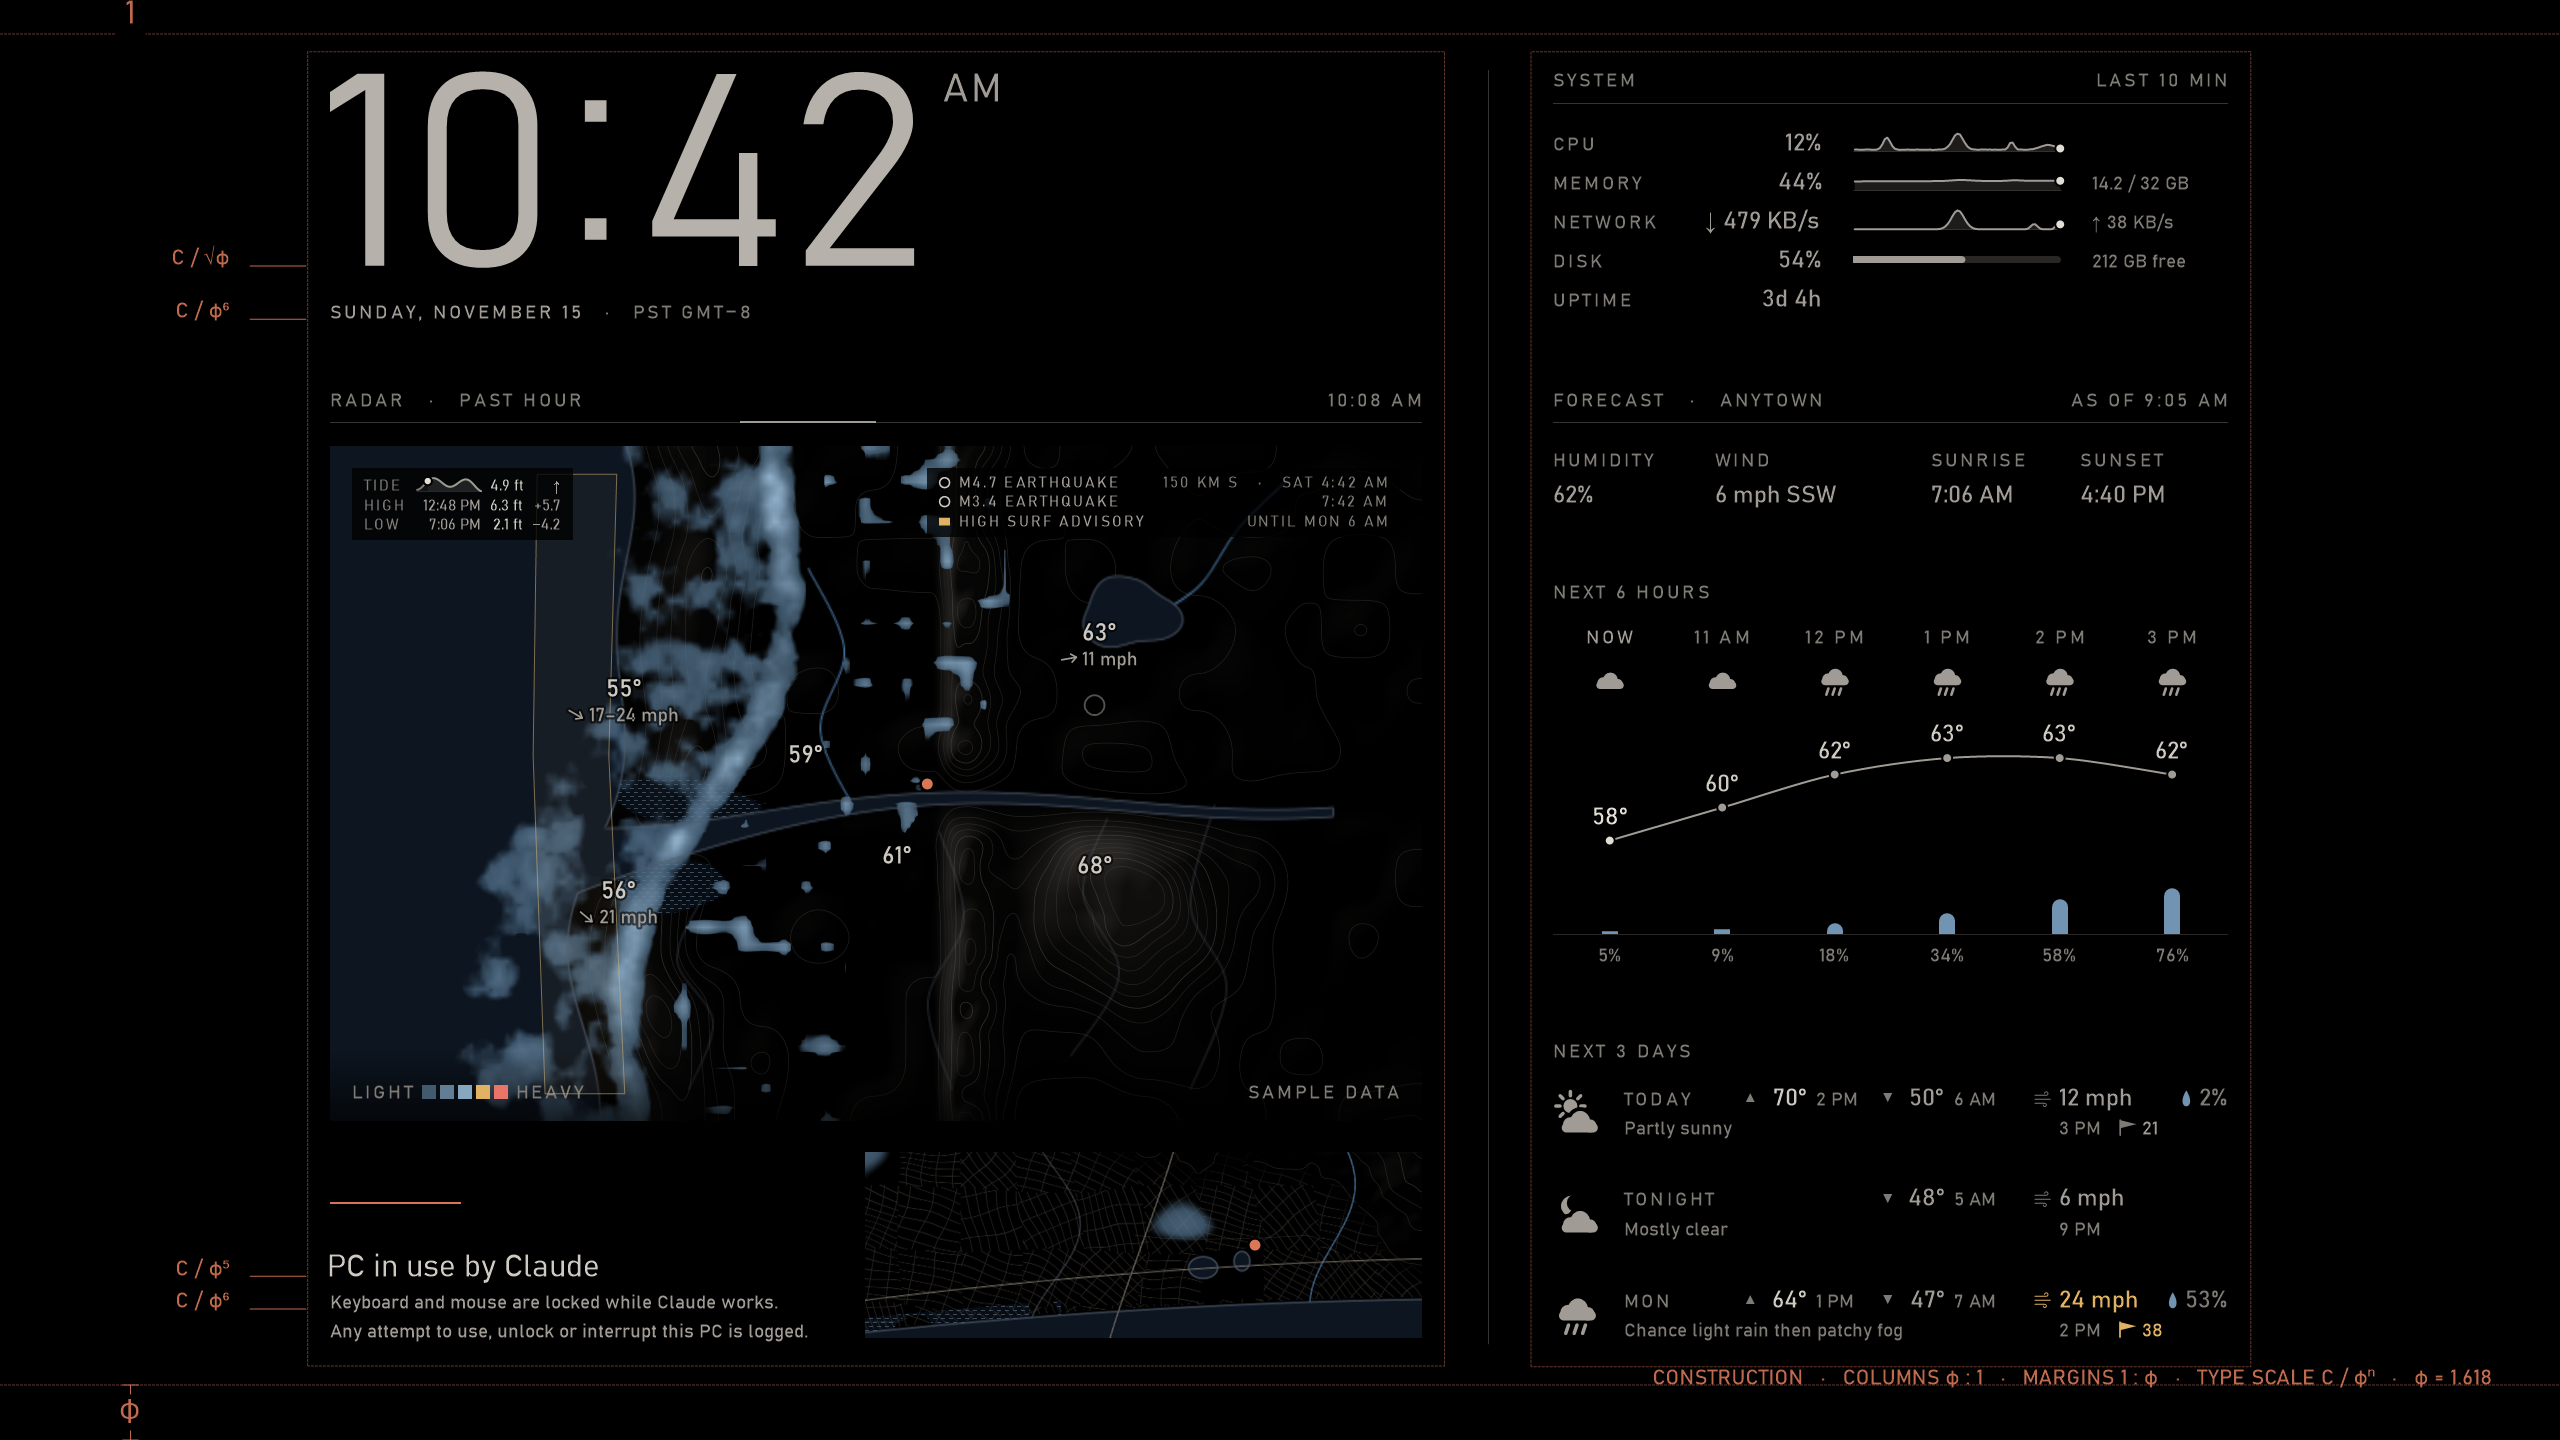
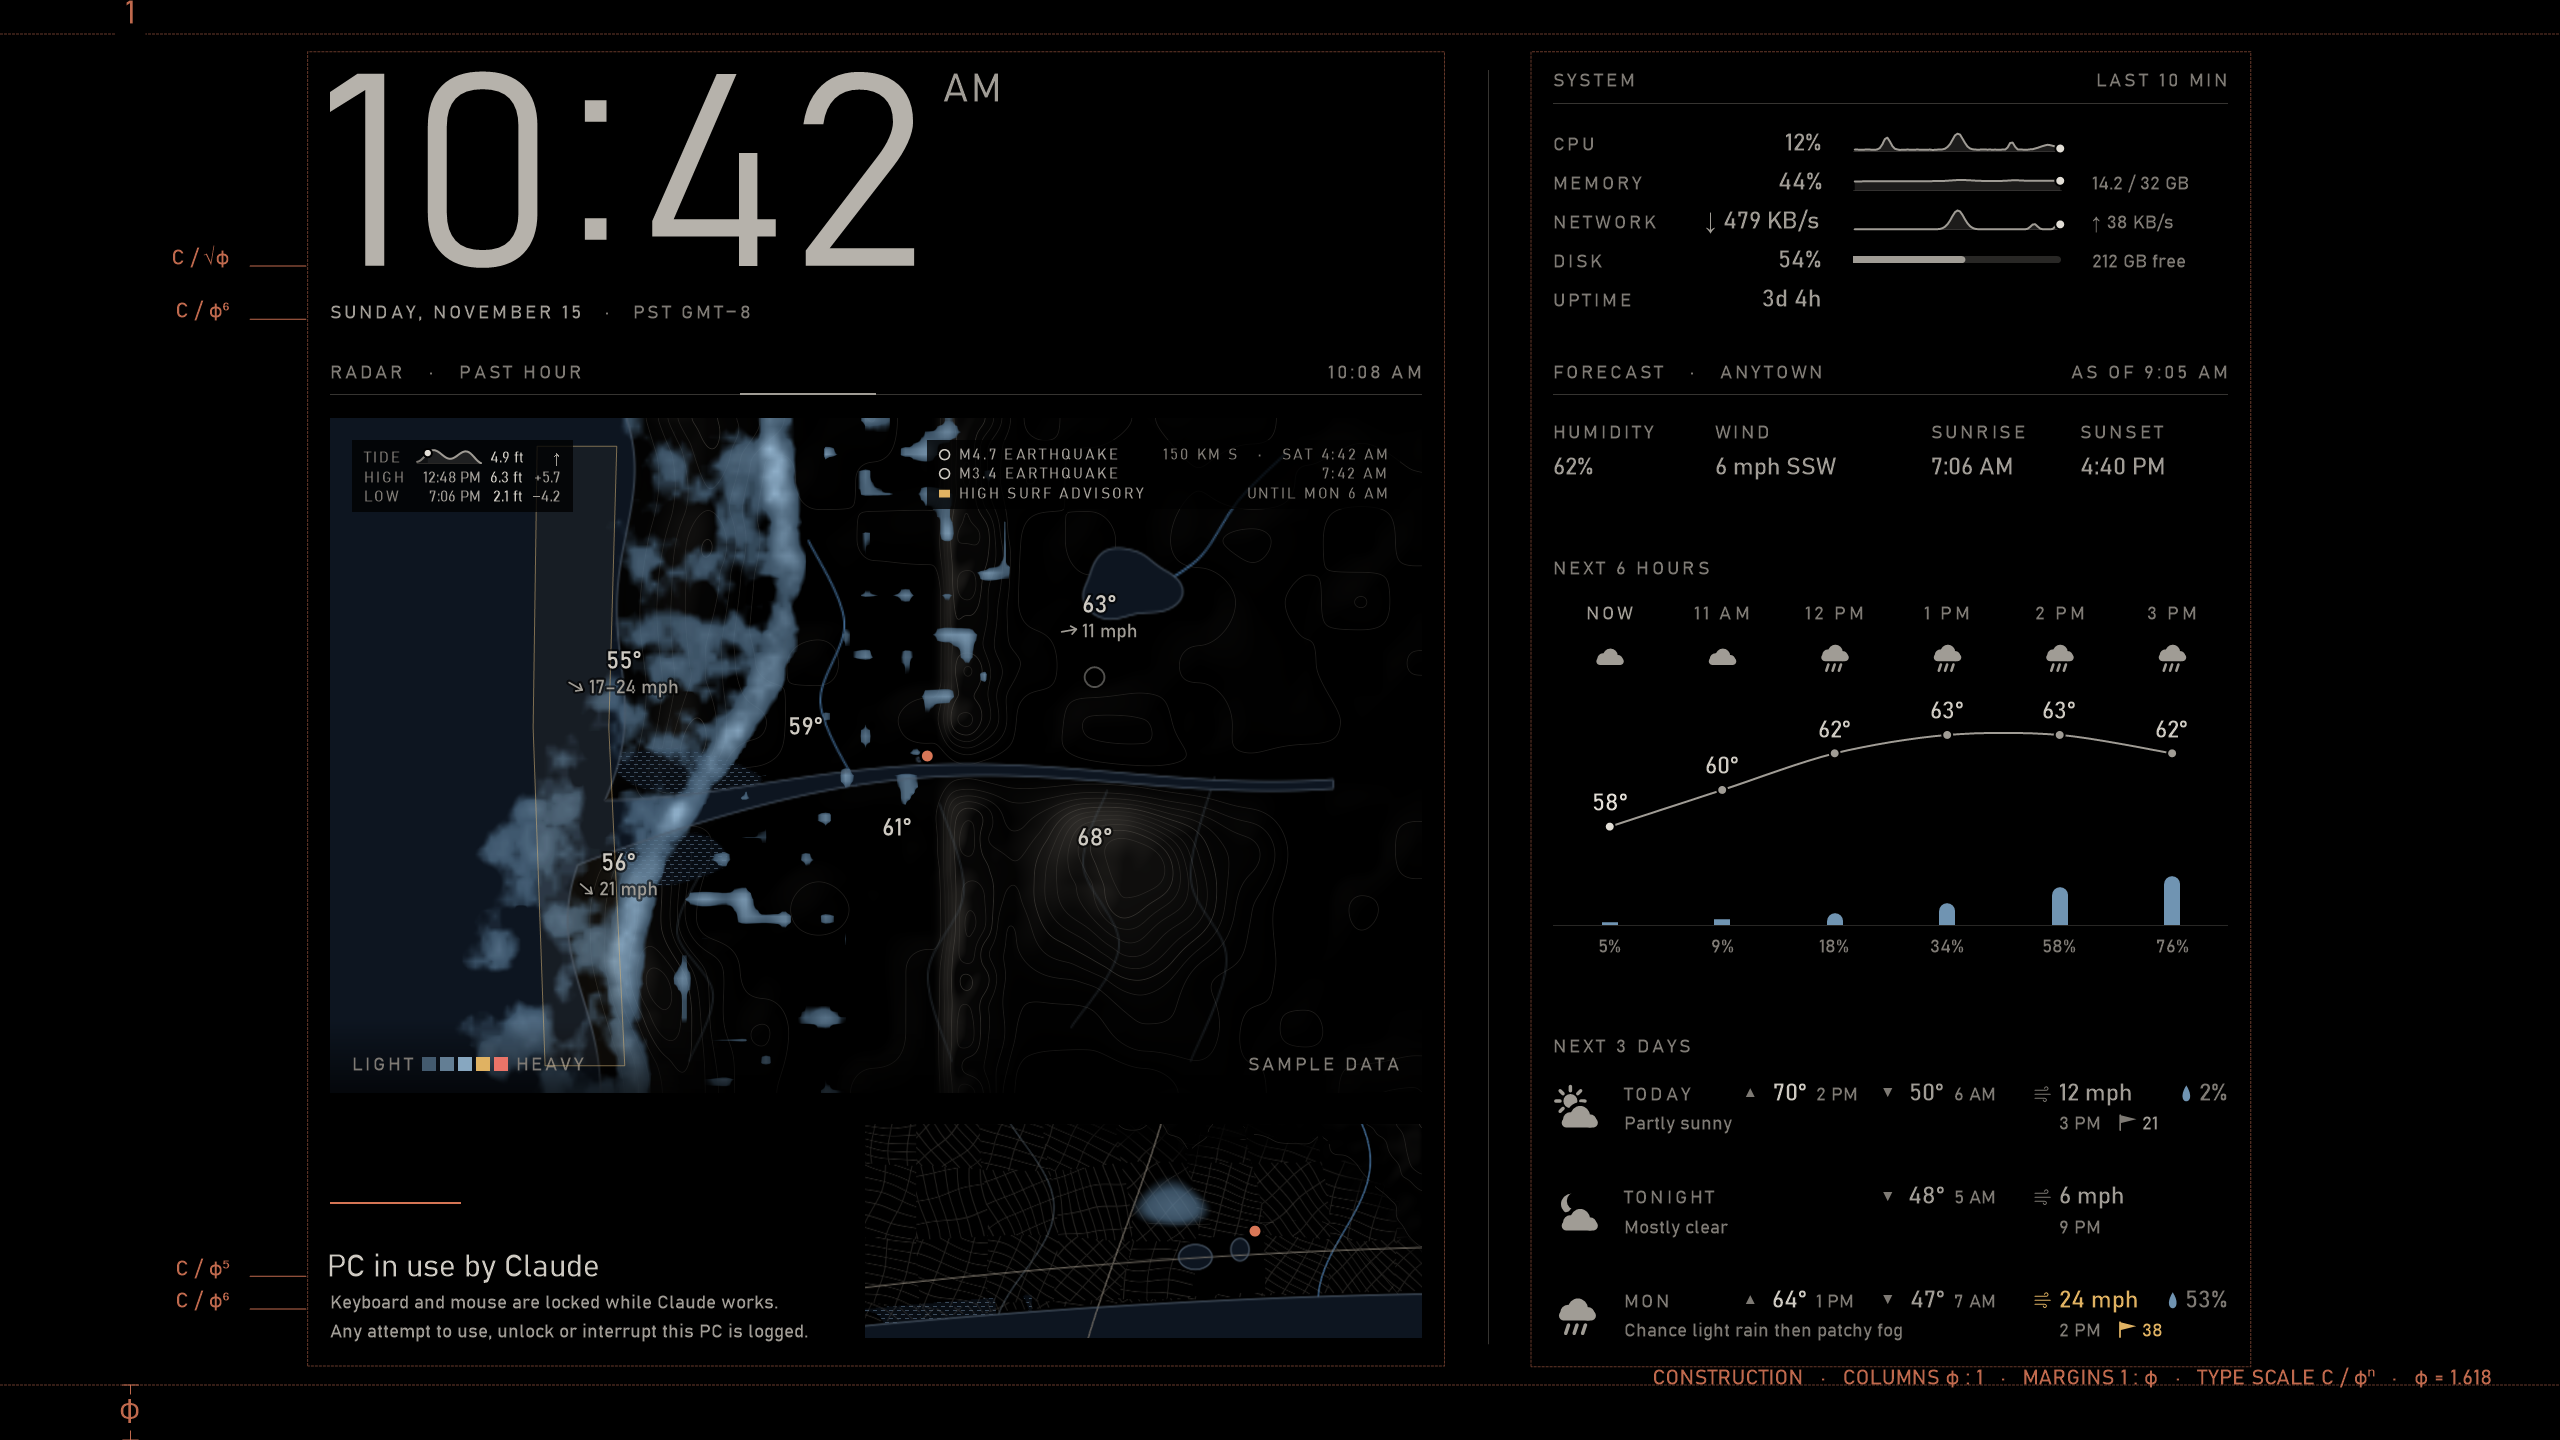
Curtain: the map's block rises a φ step, and the close-up takes the room
With the close-up shown, the map's block (header, rule, map) now sits a
φ⁴ step under the date instead of φ³, keeping its size. The close-up
takes the freed height, and the PIN row moves with the map's lowest
band. The data column's first gap is φ⁴ too (φ^3.5 before), so the
forecast's header rises with the map's and the two stay on one line.

diff --git a/src/CurtainPainter.cs b/src/CurtainPainter.cs
@@ -598,6 +598,7 @@ namespace ClaudeCurtain
                     float head;
                     float need = RightColumn(null, m, s, fData, fLabel, fSmall, track, unit, st, 0, 0, 0, 0, 0, out head);
                     L.HasRight = need > 0;
+                    float lift = 0;
                     if (hasMap && landscape && L.HasRight)
                     {
                         // If the clock leaves the map's header above where the forecast falls by itself (under the
@@ -609,8 +610,15 @@ namespace ClaudeCurtain
                             mapRule = (float)Math.Round(mapHead + st(6) * 0.8f);
                             mapTop = (float)Math.Round(mapRule + st(5.5));
                         }
+                        // With the close-up under it (2026-11-21, the user: less room between the map and the clock,
+                        // for a bigger close-up and more even spacing), the map's block (header, rule, map) rises
+                        // from a φ³ step under the date to a φ⁴ step, keeping its size, and the close-up takes the
+                        // height it leaves; the forecast's header rises with it (it falls a φ⁴ step under the system
+                        // table by itself), so the two headers stay on one line.
+                        if (s.Map.Detail != null)
+                            lift = Math.Max(0f, (float)Math.Floor(Math.Min(st(3) - st(4), mapHead - head)));
                     }
-                    float forecastAt = hasMap && landscape ? mapHead : 0;
+                    float forecastAt = hasMap && landscape ? mapHead - lift : 0;
                     // the message's last baseline, laid out naturally
                     float lastLine = hasMap ? mapTop + mapMinH + st(3) + msgH : yDate + st(3) + pinH + st(3) + msgH;
                     float stretch = 0;
@@ -635,7 +643,7 @@ namespace ClaudeCurtain
                     float ruleTop = (float)Math.Round(lastLine - msgH);
                     L.Rule = new RectangleF(0, ruleTop, ruleW, ruleH);
                     L.PinX = 0;
-                    L.PinHintBaseline = ruleTop - st(3);
+                    L.PinHintBaseline = ruleTop - st(3) - lift;   // in the map's lowest band, wherever the map sits
                     L.PinDotsY = L.PinHintBaseline - fLabel.CapHeight - st(5) - dotRow / 2f;
                     if (hasMap)
                     {
@@ -649,9 +657,9 @@ namespace ClaudeCurtain
                             float room = (float)Math.Floor((maxW - st(2) - 2 * (float)Math.Ceiling(unit * 0.25f)) / Phi);
                             leftW = Math.Max(leftW, Math.Min((float)Math.Round(mapH * Phi), room));
                         }
-                        L.Map = new RectangleF(0, mapTop, (float)Math.Round(leftW), mapH);
-                        L.MapHeadBaseline = mapHead;
-                        L.MapRuleY = mapRule;
+                        L.Map = new RectangleF(0, mapTop - lift, (float)Math.Round(leftW), mapH);
+                        L.MapHeadBaseline = mapHead - lift;
+                        L.MapRuleY = mapRule - lift;
                         AddMap(ops, m, s, L, fLabel, track, unit);
 
                         // The close-up (2026-11-21): in the room the message leaves beside it under the map, from
@@ -660,7 +668,7 @@ namespace ClaudeCurtain
                         {
                             float msgRight = Math.Max(Measure(m, title, fTitle.Font, 0) - InkLeft(title, fTitle),
                                                       Math.Max(Measure(m, l1, fSmall.Font, 0), Measure(m, l2, fSmall.Font, 0)));
-                            float dx = (float)Math.Round(msgRight + st(4)), dy = (float)Math.Round(mapBottom + st(5));
+                            float dx = (float)Math.Round(msgRight + st(4)), dy = (float)Math.Round(mapBottom - lift + st(5));
                             RectangleF d = new RectangleF(dx, dy, L.Map.Right - dx, (float)Math.Round(lastLine) - dy);
                             if (d.Width >= unit * 2 && d.Height >= unit * 0.9f)
                             {
@@ -1607,7 +1615,7 @@ namespace ClaudeCurtain
             bool haveDays = raw.Count > 0, haveHours = s.Hourly != null && s.Hourly.Length > 0;
             if (haveDays || haveHours)
             {
-                if (rows.Count > 0) y += st(3.5);   // st(3) until 2026-11-17
+                if (rows.Count > 0) y += st(4);   // st(3) until 2026-11-17, then st(3.5); st(4) since 2026-11-21, so the map's block can rise
                 string head = "FORECAST" + (place != null ? "   ·   " + place.ToUpperInvariant() : "");
                 string side = asOf != null ? "AS OF " + asOf.ToUpperInvariant() : "";
                 float headW = Measure(m, head, fLabel.Font, track) + gx + Measure(m, "AS OF 12:59 PM", fLabel.Font, track);

diff --git a/README.md b/README.md
@@ -384,7 +384,10 @@ And in the left column:
   domain; local streets a faint weave, state routes and freeways a step lighter and drawn over water
   too, so bridges show) and zoom-13 elevation (about 15 m; at this scale the relief's exaggeration
   eases and contours come every 50 m). No label, alerts or stations: the ground, the weather and
-  home. The ground is kept between refreshes while its files are unchanged.
+  home. The ground is kept between refreshes while its files are unchanged. With the close-up shown,
+  the map's block (header, rule, map) sits a φ⁴ step under the date instead of φ³, keeping its size,
+  and the close-up takes the height that frees; the data column's first gap is φ⁴ too, so the
+  forecast's header rises with the map's and the two stay on one line.
 
   Under the weather, the **relief**: the land's shape from AWS Terrain Tiles (in the United States, USGS
   3DEP elevation; about 120 m a cell at zoom 10, about 70 tiles, 7 MB, fetched once per place), sampled
